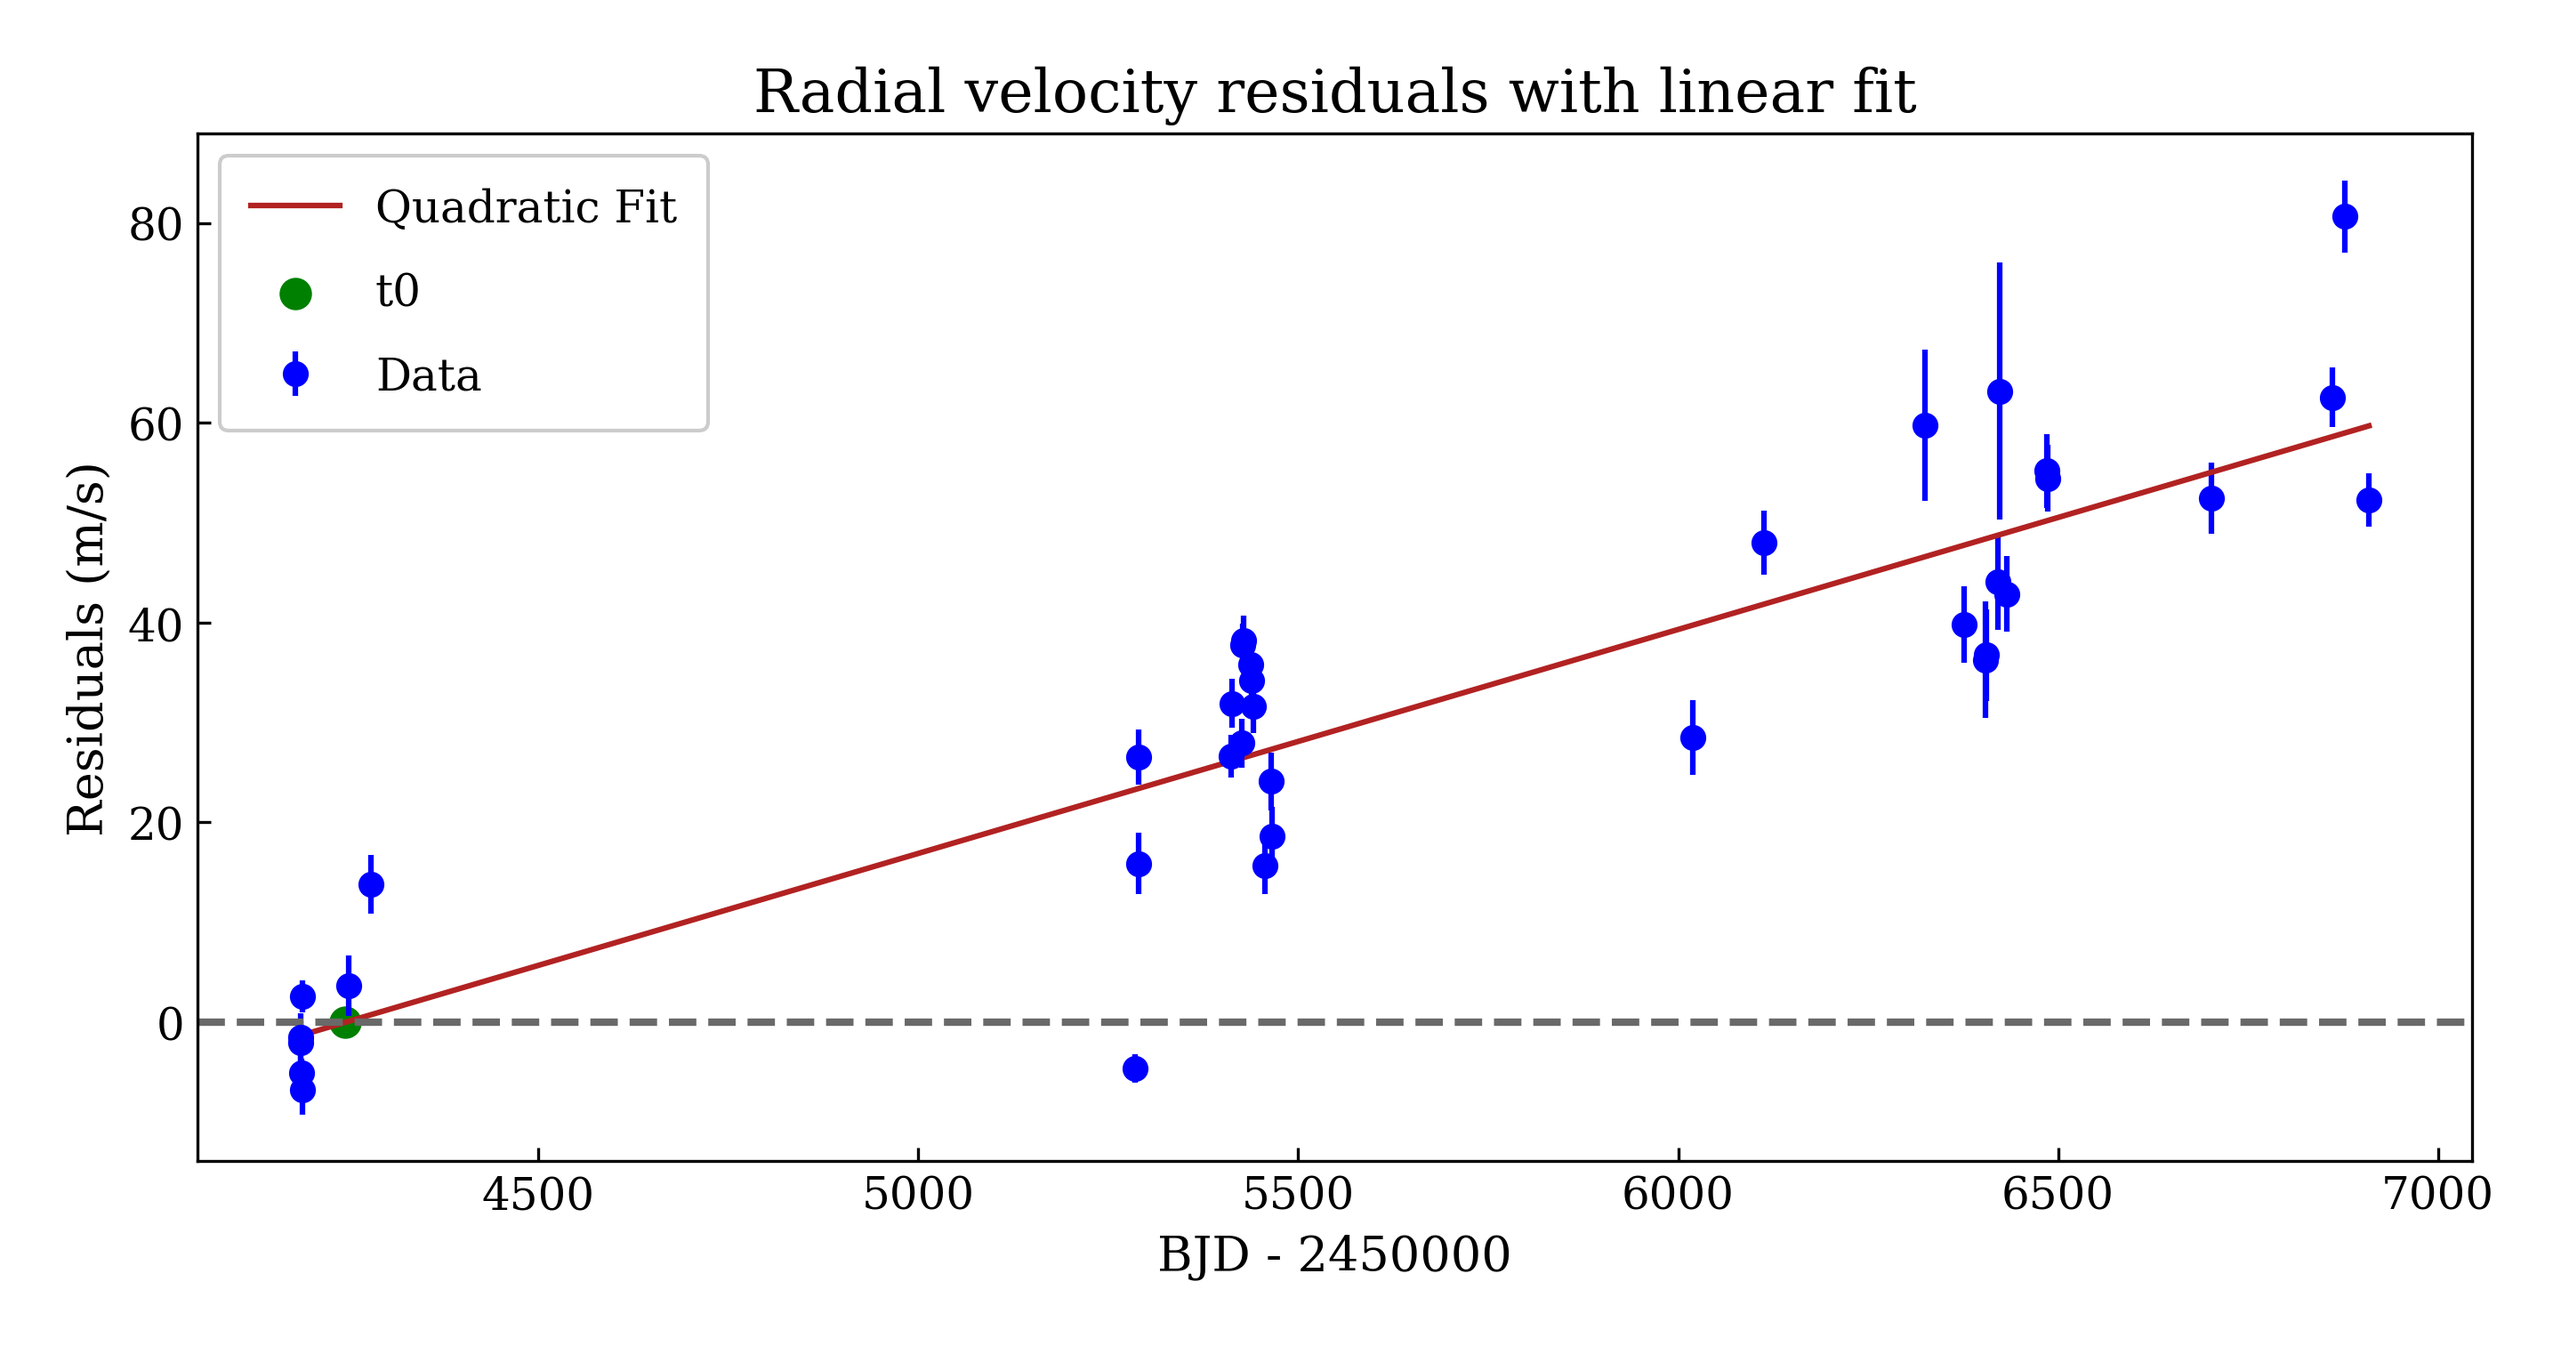
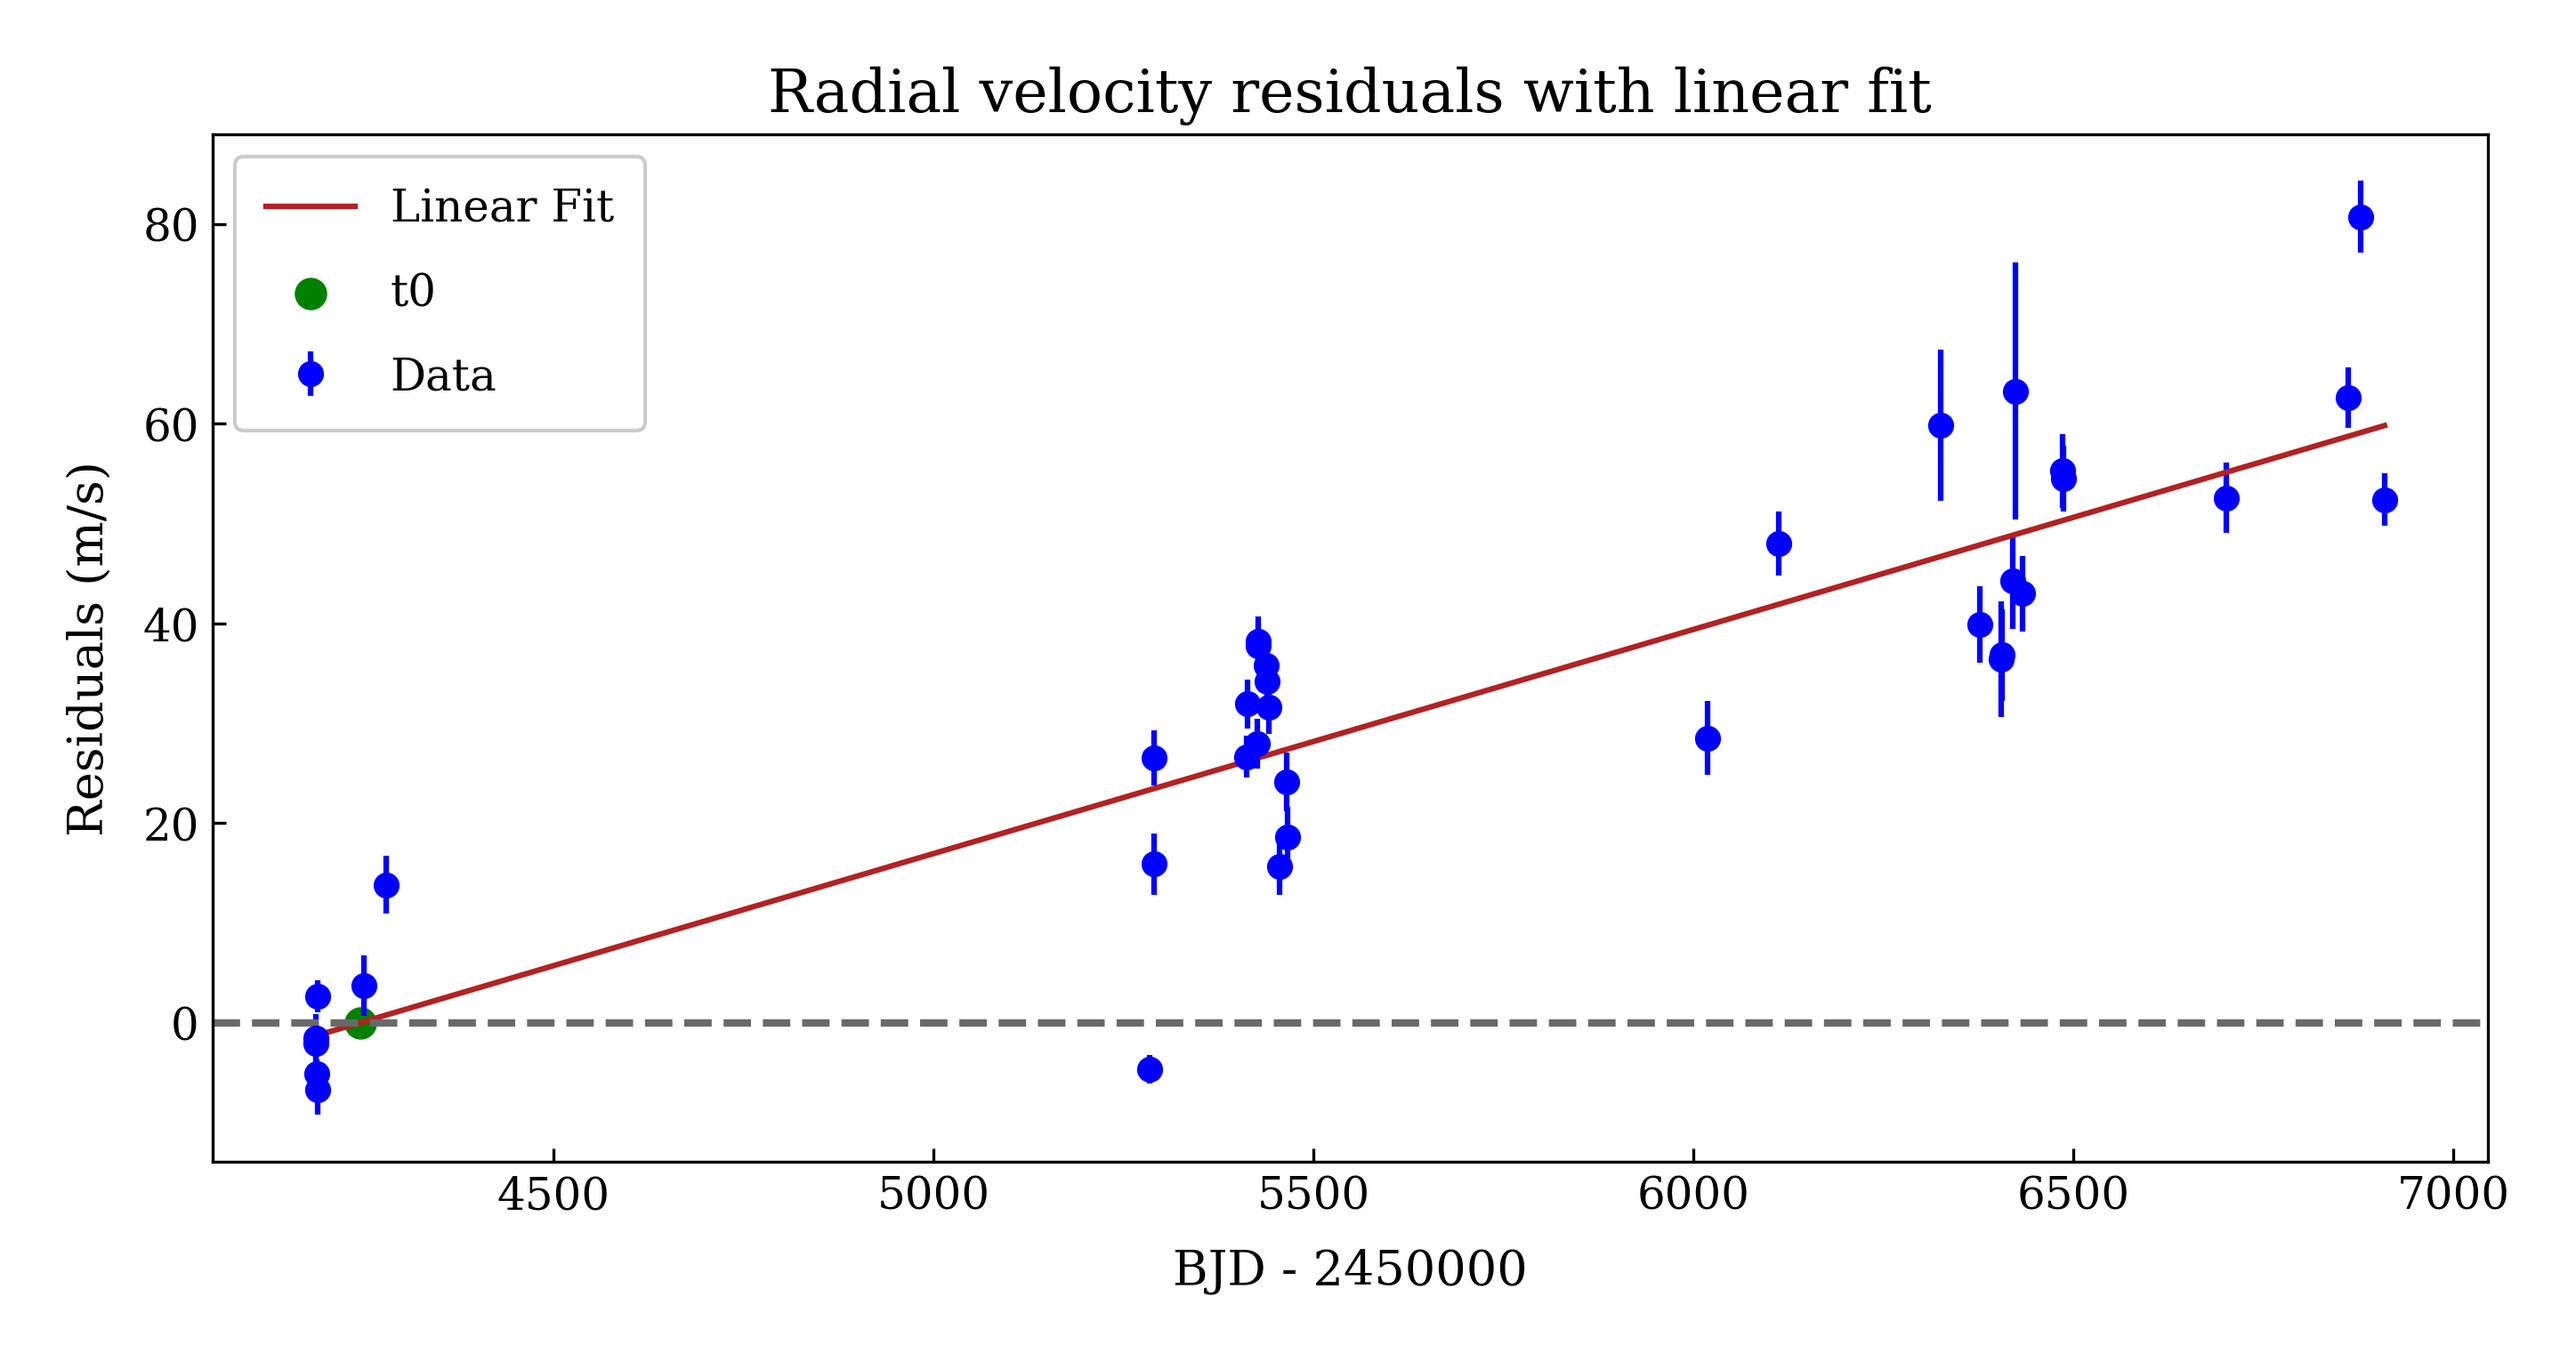
RV example edits

diff --git a/docs/source/example_rv_trends.rst b/docs/source/example_rv_trends.rst
@@ -17,7 +17,7 @@ Before running the model fits, we need to compile the radial velocity measuremen
 
 Data
 ----
-The radial velocity measurements are taken from :cite:author:`Bonomo2017` and :cite:author:`Knutson2014` and saved in the files ``examples/data/HAT-P-4_rvs.txt`` and ``examples/data/HAT-P-22_rvs.txt``.
+The radial velocity data are taken from :cite:author:`Bonomo2017` and :cite:author:`Knutson2014` and saved in the files ``examples/data/HAT-P-4_rvs.txt`` and ``examples/data/HAT-P-22_rvs.txt``. The RV measurements must be in units of meters per second (m/s).
 
 .. admonition:: Partial table of HAT-P-4 RV data:
   :class: dropdown
@@ -87,7 +87,6 @@ The :ref:`system info files <info-file>` are saved as: ``examples/info_files/HAT
           "_comment4": "Model Parameters",
 
               "_comment4_1": "Orbital Elements",
-
               "t0 [BJD_TDB]": [2454245.81521],
               "P [days]": [3.0565254]
         }
@@ -118,7 +117,6 @@ The :ref:`system info files <info-file>` are saved as: ``examples/info_files/HAT
           "_comment4": "Model Parameters",
 
               "_comment4_1": "Orbital Elements",
-
               "t0 [BJD_TDB]": [2454930.22077],
               "P [days]": [3.21222]
         }
@@ -132,15 +130,14 @@ The :ref:`settings files <settings-file>`, shown in the dropdown menus below, ar
 
     .. code-block:: JSON
 
-        {
-          "_comment1": "HAT-P-4 b Settings",
+        {"_comment0": "HAT-P-4 b Settings",
 
-          "_comment2": "Input Files",
+          "_comment1": "Input Files",
 
               "main_save_dir": "results/",
               "system_info_file": "info_files/HAT-P-4_info.json",
 
-          "_comment3": "Model Fits",
+          "_comment2": "Model Fits",
 
                "RV_fit": {
                  "save_dir": "rv_fits/",
@@ -151,9 +148,10 @@ The :ref:`settings files <settings-file>`, shown in the dropdown menus below, ar
                  "evidence_tolerance": 0.01
                },
 
-          "_comment4": "Priors",
+          "_comment3": "Priors",
 
                "prior": {
+
                  "t0": ["gaussian", 2454245.81521, 0.001],
                  "P0": ["gaussian", 3.0565254, 0.00001],
                  "ecosw": ["uniform", -0.1, 0.1],
@@ -171,15 +169,14 @@ The :ref:`settings files <settings-file>`, shown in the dropdown menus below, ar
 
     .. code-block:: JSON
 
-        {
-          "_comment1": "HAT-P-22 b Settings",
+        {"_comment0": "HAT-P-22 b Settings",
 
-          "_comment2": "Input Files",
+          "_comment1": "Input Files",
 
               "main_save_dir": "results/",
               "system_info_file": "info_files/HAT-P-22_info.json",
 
-          "_comment3": "Model Fits",
+          "_comment2": "Model Fits",
 
                "RV_fit": {
                  "save_dir": "rv_fits/",
@@ -190,9 +187,10 @@ The :ref:`settings files <settings-file>`, shown in the dropdown menus below, ar
                  "evidence_tolerance": 0.01
                },
 
-          "_comment4": "Priors",
+          "_comment3": "Priors",
 
                "prior": {
+
                  "t0": ["gaussian", 2454930.22077, 0.001],
                  "P0": ["gaussian", 3.21222, 0.00001],
                  "ecosw": ["uniform", -0.1, 0.1],
@@ -209,10 +207,9 @@ The first part of the settings file specifies the path name for the system infor
 
 .. code-block:: JSON
 
-    {
-      "_comment1": "HAT-P-4 b Settings",
+    {"_comment0": "HAT-P-4 b Settings",
 
-      "_comment2": "Input Files",
+      "_comment1": "Input Files",
 
           "main_save_dir": "results/",
           "system_info_file": "info_files/HAT-P-4_info.json",
@@ -228,27 +225,30 @@ For this example, the ``"nestle"`` sampler has been specified with 1000 live poi
 
     ...
 
-      "_comment3": "Model Fits",
+    "_comment2": "Model Fits",
 
-           "RV_fit": {
-             "save_dir": "rv_fits/",
-             "data_file": "data/HAT-P-4b_rvs.txt",
-             "data_delimiter": " ",
-             "sampler": "nestle",
-             "n_live_points": 1000,
-             "evidence_tolerance": 0.01
-           },
+       "RV_fit": {
+         "save_dir": "rv_fits/",
+         "data_file": "data/HAT-P-4b_rvs.txt",
+         "data_delimiter": " ",
+         "sampler": "nestle",
+         "n_live_points": 1000,
+         "evidence_tolerance": 0.01
+       },
     ...
 
-The remaining portion of the settings file defines the ``"prior"`` dictionary, which defines the :ref:`prior distributions <priors>` for the model parameters. We need only populate this with the parameters that are to be included in the model fits, which in this case are the reference transit mid-time ``"t0"``, orbital period ``"P0"``, RV semi-amplitude ``"K"``, systemic velocity ``"v0"``, jitter parameter ``"jit"``, the first-order acceleration term ``"dvdt"``, the second-order acceleration term ``"ddvdt"``, and the coupled parameters ``"ecosw"`` and ``"esinw"``.
+The remaining portion of the settings file defines the ``"prior"`` dictionary, which defines the :ref:`prior distributions <priors>` for the model parameters. For Gaussian priors, the first value represents the mean and the second the standard deviation. Uniform priors are defined by their minimum and maximum limits, while log priors follow the same structure but use :math:`\log_10 (\text{min})` and :math:`\log_10 (\text{max})` instead.
+
+We need only populate this with the parameters that are to be included in the model fits, which in this case are the reference transit mid-time ``"t0"``, orbital period ``"P0"``, RV semi-amplitude ``"K"``, systemic velocity ``"v0"``, jitter parameter ``"jit"``, the first-order acceleration term ``"dvdt"``, the second-order acceleration term ``"ddvdt"``, and the coupled parameters ``"ecosw"`` and ``"esinw"``.
 
 .. code-block:: JSON
 
     ...
 
-      "_comment4": "Priors",
+      "_comment3": "Priors",
 
            "prior": {
+
              "t0": ["gaussian", 2454245.81521, 0.001],
              "P0": ["gaussian", 3.0565254, 0.00001],
              "ecosw": ["uniform", -0.1, 0.1],
@@ -364,12 +364,10 @@ Once the model fits are complete, the output files are found in the directory th
 
         Fixed Parameters
         ----------------
-        e0 = 0.0
-        w0 = 0.0
         dvdt = 0.0
         ddvdt = 0.0
 
-The best-fit parameter values are shown, with uncertainties derived from the 68% confidence intervals, as well as other useful information about the model fit. Notice how the instrument-dependent free parameters, ``"v0"`` and ``"jit"``, were automatically split into different variables for each data source.
+The best-fit parameter values are shown, with uncertainties derived from the 68% credible intervals, as well as other useful information about the model fit. Notice how the instrument-dependent free parameters, ``"v0"`` and ``"jit"``, were automatically split into different variables for each data source.
 
 Though the Bayesian evidences for the two models, ``log(Z) = -161.6`` and ``log(Z) = -161.7``, are indistinguishable, the result of the eccentric orbit fit is consistent with that of a circular orbit. This finding is consistent with the results from both :cite:author:`Bonomo2017` and :cite:author:`Knutson2014`.
 
@@ -549,14 +547,14 @@ This appends the following summary to the output file:
     ---------------------------------------------------------------------------
      * Slope of the linear trend in the best-fit radial velocity model:
           dvdt = 2.24E-02 m/s/day
-     * Minimum outer companion mass from slope (assuming P_min = 1.25 * baseline = 9.32 days):
+     * Minimum outer companion mass from slope (assuming P_min = 1.25 * baseline = 9.32 years):
           M_c > 2.27 M_jup
           a_c > 4.77 AU
           K_c > 30.51 m/s
      * Apparent orbital period derivative induced by the line-of-sight acceleration:
           dP/dt = 7.21E+00 ms/yr
 
-The following table shows that these lower limits are compatible with the findings of :cite:author:`Knutson2014`. It is important to note that upper limits cannot be obtained from radial velocity data alone, and that :cite:author:`Knutson2014` performed additional analyses of AO imaging for this purpose.
+The following table shows that these lower limits are consistent with the findings of :cite:author:`Knutson2014`. Upper limits cannot be determined from radial velocity data alone, and :cite:author:`Knutson2014` performed additional analyses using AO imaging to address this limitation. The :cite:author:`Bonomo2017` study did not report these constraints directly but instead referenced :cite:author:`Knutson2014`, stating that their best-fit parameters are in agreement.
 
 .. list-table::
    :header-rows: 1
@@ -573,8 +571,6 @@ The following table shows that these lower limits are compatible with the findin
      - :math:`\mathrm{AU}`
      - :math:`5-60`
      - :math:`>4.8`
-
-We note that the :cite:author:`Bonomo2017` study did not report these constraints, instead citing :cite:author:`Knutson2014` and noting that their best-fit parameters agree.
 
 The following image displays a plot of the best-fit linear trend over the RV residuals, which is automatically generated by the :meth:`~orbdot.analysis.Analyzer.unknown_companion` method.
 
@@ -674,8 +670,6 @@ Once the model fits are complete, the output files are found in the directory: `
 
         Fixed Parameters
         ----------------
-        e0 = 0.0
-        w0 = 0.0
         dvdt = 0.0
         ddvdt = 0.0
 
@@ -854,9 +848,9 @@ This appends the following summary to the ``analysis/rv_constant_analysis_quadra
           quadratic: ddvdt = 2.29E-05 m/s^2/day
      * Constraints on the mass and orbit of an outer companion from a quadratic RV:
           P_c > 20.25 years
+          M_c > 2.87 M_jup
           a_c > 7.21 AU
           K_c > 31.77 m/s
-          M_c > 2.87 M_jup
 
 The following table demonstrates that these values are in excellent agreement with the results from :cite:author:`Bonomo2017`:
 
